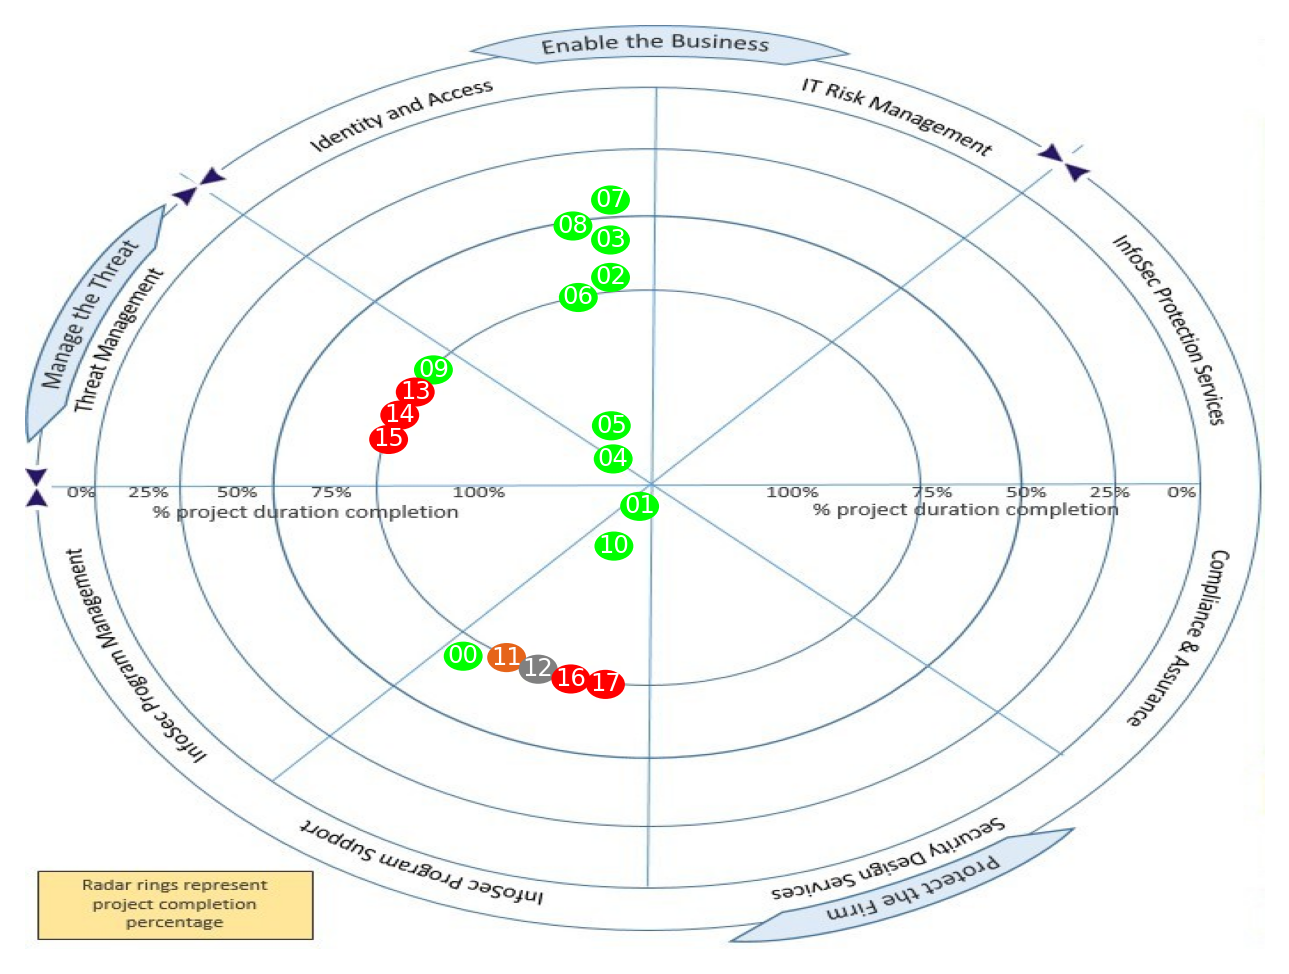
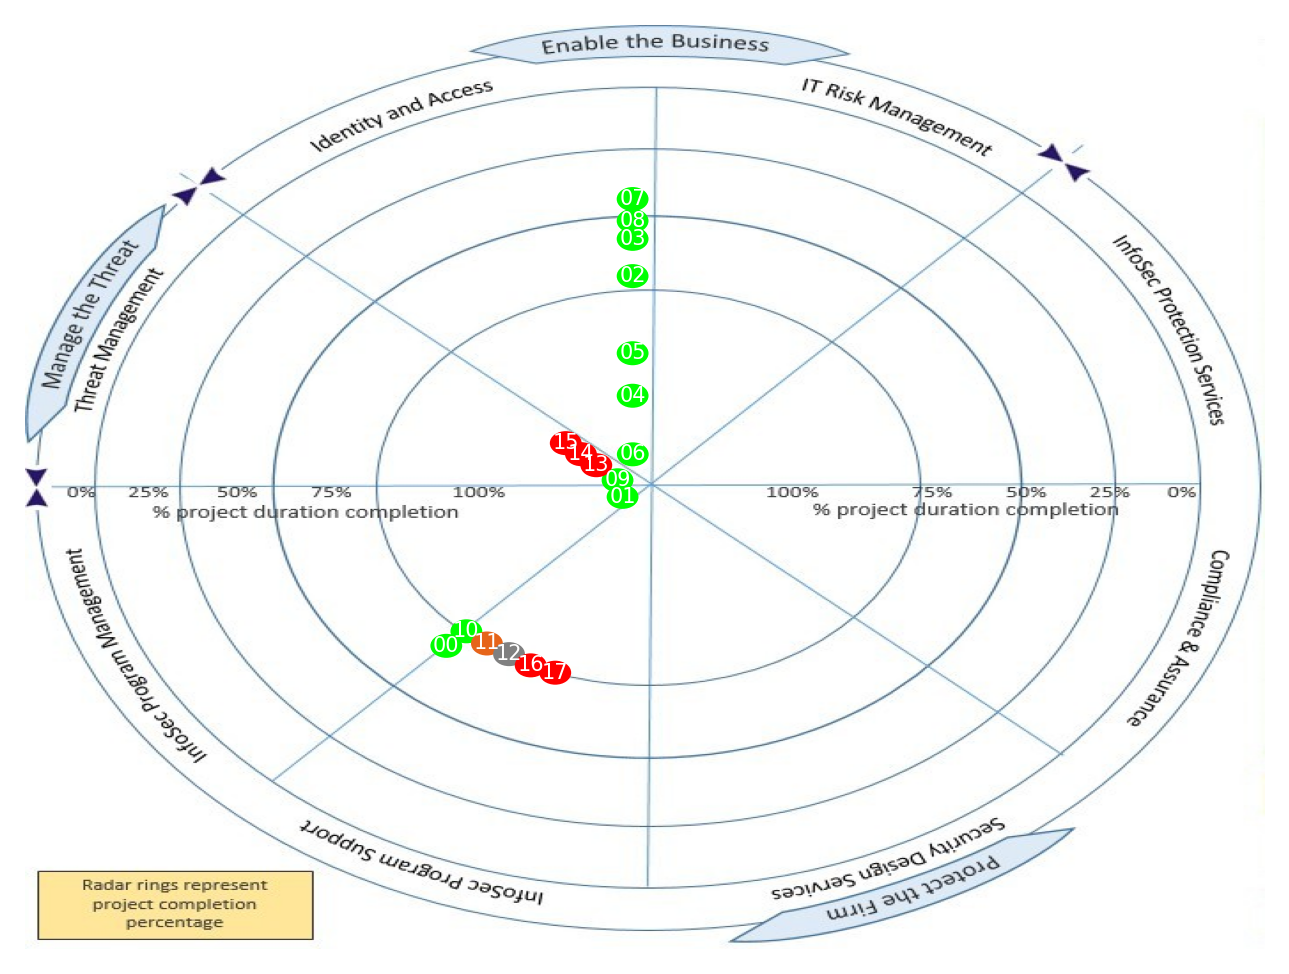
HUGE improvements

diff --git a/main.py b/main.py
@@ -115,29 +115,49 @@ def generate_excel(radar_ids: list[str], names: list[list[str]]) -> None:
 
     wb.save("test.xlsx")
 
-def calculate_position(percent: float, positions: list[list[list]], idx: int, angle_bounds: list[float]) -> list[float]:
+def calculate_position(percent: float, positions: list[list[list]], idx: int, angle_bounds: list[float], name: str) -> list[float]:
     overlapping = []
     # ideal_radius = round(150 * (1 - percent) + 15) if 0.75 <= percent <= 1.0 else round(160 * (0.75 - percent) + 150)
-    if 0.75 <= percent <= 1.0:        
-        ideal_radius = round(150 * (1 - percent) + 15) 
+    if 0.75 <= percent <= 1.0:
+        # output = output_start + ((output_end - output_start) / (input_end - input_start)) * (input_percent - input_start)
+        out = 0 + ((1 - 0) / (1 - 0.75)) * (percent - 0.75)
+        ideal_radius = round(150 * (1 - out) + 15)
+
     elif percent < 0.75:
         ideal_radius = round(160 * (0.75 - percent) + 150)
-   
+    
+    
+
     max_points = ((math.pi/4 * ideal_radius) // 20) - 1
+    """
     for c in positions:
         for p in c:
-            if abs(p[1] - ideal_radius) < 20 and (angle_bounds[0] - 0.1) <= p[0] <= (angle_bounds[1] + 0.1):
+            if abs(p[1] - ideal_radius) < 12 and (angle_bounds[0] - 0.1) <= p[0] <= (angle_bounds[1] + 0.1):
                 overlapping.append(p)
+     """
+    for p in positions[idx]:
+        if abs(p[1] - ideal_radius) < 12 and (angle_bounds[0] - 0.1) <= p[0] <= (angle_bounds[1] + 0.1):
+            overlapping.append(p)
+    
+    if "Project ghi" in name:     
+        print(f"IDEAL_RADIUS: {ideal_radius}")
+        print(overlapping)
+
 
     if len(overlapping) == 0:
-        return [ideal_radius, angle_bounds[0] + (20/ideal_radius)]
+        print(f"No overlapping - name: {name} - r: {ideal_radius} - angle: {angle_bounds[0] + (20/ideal_radius)}")
+        return [ideal_radius, angle_bounds[0] + (15/(ideal_radius * 2))]
 
     if len(overlapping) >= max_points:
-        ideal_radius, angle = calculate_position(percent-0.05, positions, idx, angle_bounds)
+        # print(f"NAME: {name}")
+        ideal_radius, angle = calculate_position(percent-0.01, positions, idx, angle_bounds, "recursive_call: " + name)
+        
     else:
         max_a = max([p[0] for p in overlapping])
-        return [ideal_radius, max_a + (20/ideal_radius)]
+        print(f"Take max current angle - name: {name} - r: {ideal_radius} - angle: {max_a + (20/ideal_radius)}")
+        return [ideal_radius, max_a + (30/(ideal_radius*2))]
 
+    print(f"default - name: {name} - r: {ideal_radius} - angle: {angle}")
     return [ideal_radius, angle]
 
 def main() -> None:
@@ -172,40 +192,40 @@ def main() -> None:
             # TODO: r is wrong
             percent = df["%Project Duration Completed2"][row_num]
             # print(ids[row_num])
-            if df["Project Name"][row_num][0] == "c" or df["Project Name"][row_num] == "Project jkl":
-                print(df["%Project Duration Completed2"][row_num])
+            # if df["Project Name"][row_num][0] == "c" or df["Project Name"][row_num] == "Project jkl":
+                # print(df["%Project Duration Completed2"][row_num])
             match df["Service Category"][row_num]:
                 case "InfoSec Protection Services":
                     # 0 - pi/4
-                    r, a = calculate_position(percent, positions, 0, [0, math.pi/4])
+                    r, a = calculate_position(percent, positions, 0, [0, math.pi/4], df["Project Name"][row_num])
                     positions[0].append([a, r, ids[row_num - closed_count], df["Overall Health"][row_num]])
                 case "IT Risk Management":
                     # pi/4 - pi/2
-                    r, a = calculate_position(percent, positions, 1, [math.pi/4, math.pi/2])
+                    r, a = calculate_position(percent, positions, 1, [math.pi/4, math.pi/2], df["Project Name"][row_num])
                     positions[1].append([a, r, ids[row_num - closed_count], df["Overall Health"][row_num]])
                 case "Identity and Access":
                     # pi/2 - 3pi/4
-                    r, a = calculate_position(percent, positions, 2, [math.pi/2, 3*math.pi/4])
+                    r, a = calculate_position(percent, positions, 2, [math.pi/2, 3*math.pi/4], df["Project Name"][row_num])
                     positions[2].append([a, r, ids[row_num - closed_count], df["Overall Health"][row_num]])
                 case "Threat Management":
                     # 3pi/4 - pi
-                    r, a = calculate_position(percent, positions, 3, [3*math.pi/4, math.pi])
+                    r, a = calculate_position(percent, positions, 3, [3*math.pi/4, math.pi], df["Project Name"][row_num])
                     positions[3].append([a, r, ids[row_num - closed_count], df["Overall Health"][row_num]])
                 case "InfoSec Program Management":
                     # pi - 5pi/4
-                    r, a = calculate_position(percent, positions, 4, [math.pi, 5*math.pi/4])
+                    r, a = calculate_position(percent, positions, 4, [math.pi, 5*math.pi/4], df["Project Name"][row_num])
                     positions[4].append([a, r, ids[row_num - closed_count], df["Overall Health"][row_num]])
                 case "InfoSec Program Support":
                     # 5pi/4 - 3pi/2
-                    r, a = calculate_position(percent, positions, 5, [5*math.pi/4, 3*math.pi/2])
+                    r, a = calculate_position(percent, positions, 5, [5*math.pi/4, 3*math.pi/2], df["Project Name"][row_num])
                     positions[5].append([a, r, ids[row_num - closed_count], df["Overall Health"][row_num]])
                 case "Security Design Services":
                     # 3pi/2 - 7pi/4
-                    r, a = calculate_position(percent, positions, 6, [3*math.pi/2, 7*math.pi/4])
+                    r, a = calculate_position(percent, positions, 6, [3*math.pi/2, 7*math.pi/4], df["Project Name"][row_num])
                     positions[6].append([a, r, ids[row_num - closed_count], df["Overall Health"][row_num]])
                 case "Compliance & Assurance":
                     # 7pi/4 - 2pi
-                    r, a = calculate_position(percent, positions, 7, [7*math.pi/4, 2*math.pi])
+                    r, a = calculate_position(percent, positions, 7, [7*math.pi/4, 2*math.pi], df["Project Name"][row_num])
                     positions[7].append([a, r, ids[row_num - closed_count], df["Overall Health"][row_num]])
                 case _:
                     print("This should not run")
@@ -230,9 +250,9 @@ def main() -> None:
                     curr_color = "#808080"
                 case "RED": # check
                     curr_color = "#ff0000"
-            circle = plt.Circle((p[1]*math.cos(p[0]) + IMG_WIDTH//2, IMG_HEIGHT//2 - p[1]*math.sin(p[0])), 10, color=curr_color, fill=True)
+            circle = plt.Circle((p[1]*math.cos(p[0]) + IMG_WIDTH//2, IMG_HEIGHT//2 - p[1]*math.sin(p[0])), 8, color=curr_color, fill=True)
             ax.add_artist(circle)
-            ax.text(p[1]*math.cos(p[0]) + IMG_WIDTH//2,  IMG_HEIGHT//2 - p[1]*math.sin(p[0]), p[2], ha="center", va="center", fontsize=7, color="white")
+            ax.text(p[1]*math.cos(p[0]) + IMG_WIDTH//2,  IMG_HEIGHT//2 - p[1]*math.sin(p[0]), p[2], ha="center", va="center", fontsize=6, color="white")
 
     # Save the figure without borders
     fig.savefig("radar.png", dpi=250, bbox_inches="tight")
